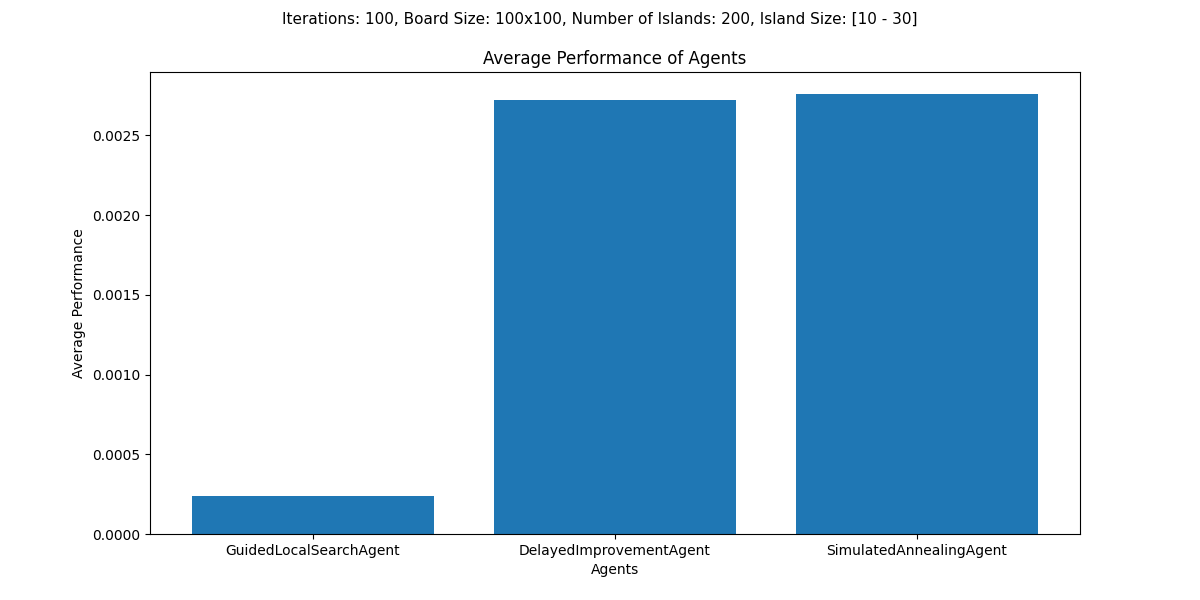
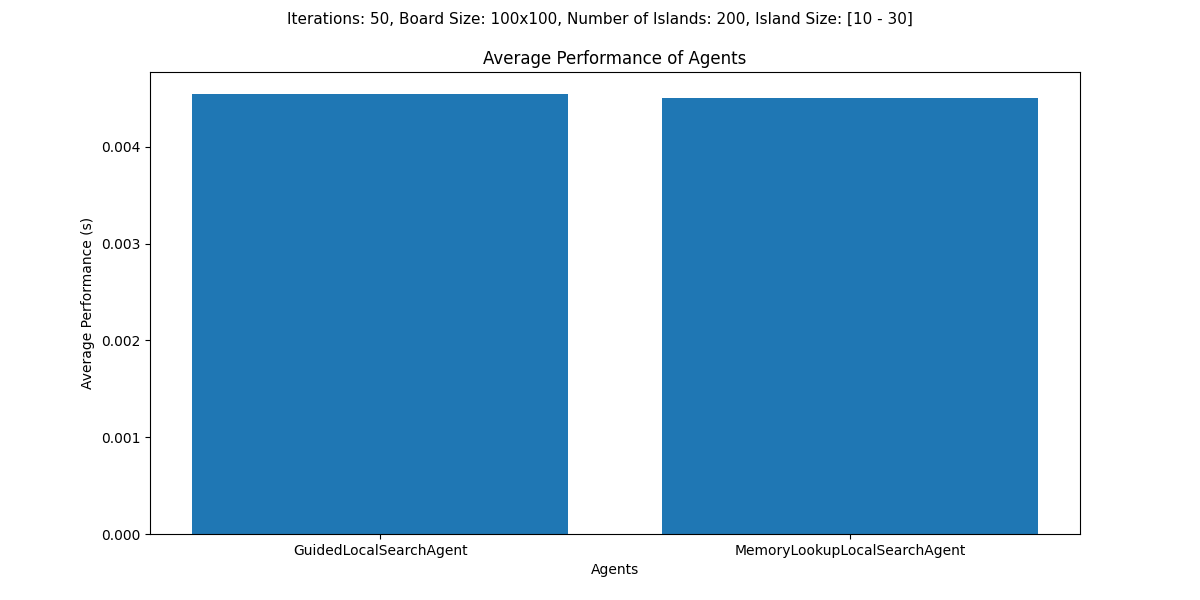
Added memory lookup agent

diff --git a/optimized_agents.py b/optimized_agents.py
@@ -1,0 +1,79 @@
+from agents import *
+
+
+class MemoryLookupLocalSearchAgent(Agent):
+    def __init__(self, color, i, j, goal_i, goal_j):
+        super().__init__(color, i, j, goal_i, goal_j)
+        self.heuristics = {}
+        self.penalties = {}
+
+    def name(self):
+        return 'MemoryLookupLocalSearchAgent'
+
+    def heuristic(self, i=None, j=None):
+        if i == None:
+            i = self.i
+        if j == None:
+            j = self.j
+        
+        coord = (i, j)
+        penalty = self.penalties.get(coord, 0)
+
+        if (penalty > 100):
+            self.no_solution = True
+            return -1
+    
+        if coord not in self.heuristics:
+            self.heuristics[coord] = super().heuristic(i, j)
+
+
+        return self.heuristics[coord] * (penalty + 1)
+    
+    def open_moves(self, board):
+        options = [
+            (self.i, self.j),
+            (self.i + 1, self.j),
+            (self.i + 1, self.j + 1),
+            (self.i + 1, self.j - 1),
+            (self.i, self.j + 1),
+            (self.i, self.j - 1),
+            (self.i - 1, self.j + 1),
+            (self.i - 1, self.j),
+            (self.i - 1, self.j - 1),
+        ]
+
+        out = []
+        n = len(board)
+        for coord in options:
+            i, j = coord
+            is_valid = 0 <= i < n and 0 <= j < n
+            if is_valid and (not board[i][j] or board[i][j] == 1):
+                out.append(coord)
+        return out
+    
+    def move(self, board):
+        '''
+        Moves the given agent on the board.
+        '''
+
+        if self.is_goal() or self.no_solution:
+            return
+
+        self.frontier = self.open_moves(board)
+        self.sort_frontier()
+        
+        if not self.frontier:
+            self.no_solution = True
+            return
+        
+        coord = self.frontier.pop(0)
+
+        if coord not in self.penalties:
+            self.penalties[coord] = 1
+        else:
+            self.penalties[coord] += 1
+
+        board[self.i][self.j] = 0
+        self.i, self.j = coord
+        board[self.i][self.j] = self
+

diff --git a/testing.py b/testing.py
@@ -1,5 +1,6 @@
 from board import Board
 from agents import *
+from optimized_agents import *
 from matplotlib import pyplot as plt
 
 def performanceLinechart(agents, iterations, board, fname, data=None):
@@ -164,11 +165,15 @@ def problemsSolvedBarChart(agents, iterations, board, fname, data=None):
 if __name__ == '__main__':
     b = Board()
     b2 = Board(rows=100, cols=100, num_islands=200, min_island_size=10, max_island_size=30)
-    agents = [AStarAgent, BidirectionalSearchAgent, GuidedLocalSearchAgent, SteepestAscentAgent]
-    data = b.test(100, agents)
+    b3 = Board(rows=1000, cols=1000, num_islands=2000, min_island_size=10, max_island_size=30)
+    # agents = [AStarAgent, BidirectionalSearchAgent, GuidedLocalSearchAgent, SteepestAscentAgent]
+    agents = [GuidedLocalSearchAgent, MemoryLookupLocalSearchAgent]
+
+    iterations = 50
+    data = b3.test(iterations, agents)
 
 
-    # averagePerformanceBarChart(agents, 100, b2, 'average_performance.png', data)
-    # performanceLinechart(agents, 100, b2, 'performance.png', data)
-    # fastestSolutionBarChart(agents, 100, b2, 'fastest.png', data)
-    problemsSolvedBarChart(agents, 100, b2, 'problems_solved.png', data)
+    averagePerformanceBarChart(agents, iterations, b2, 'average_performance.png', data)
+    performanceLinechart(agents, iterations, b2, 'performance.png', data)
+    fastestSolutionBarChart(agents, iterations, b2, 'fastest.png', data)
+    # problemsSolvedBarChart(agents, iterations, b2, 'problems_solved.png', data)

diff --git a/main.py b/main.py
@@ -1,5 +1,6 @@
 from board import Board
 from agents import *
+from optimized_agents import MemoryLookupLocalSearchAgent
 
 
 # Testing board
@@ -27,7 +28,7 @@ def main(agent=Agent):
 # main()
 # main(GuidedLocalSearchAgent)
 # main(DelayedImprovementAgent)
-main(AStarAgent)
+main(MemoryLookupLocalSearchAgent)
 
 # b = Board()
 # print(b.test(100, AStarAgent, BidirectionalSearchAgent, SimulatedAnnealingAgent))
